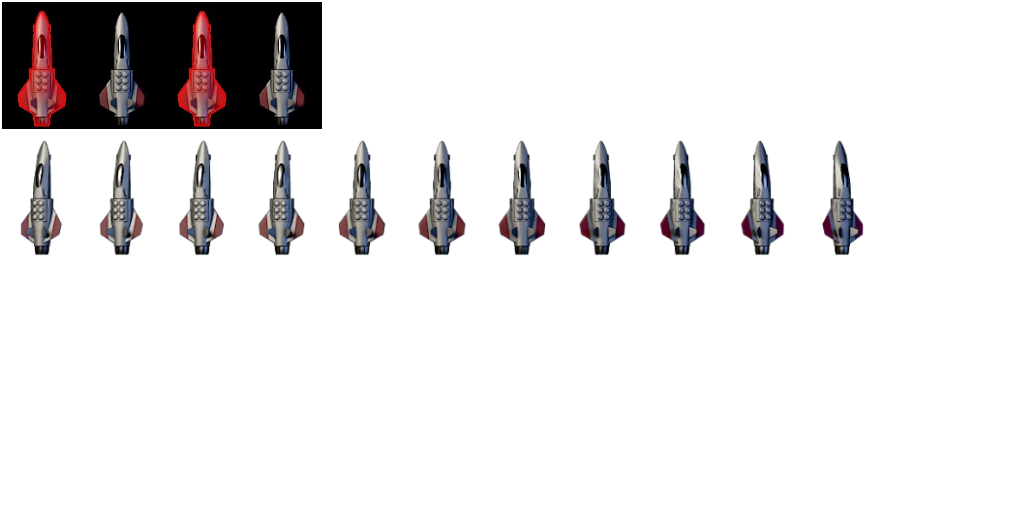
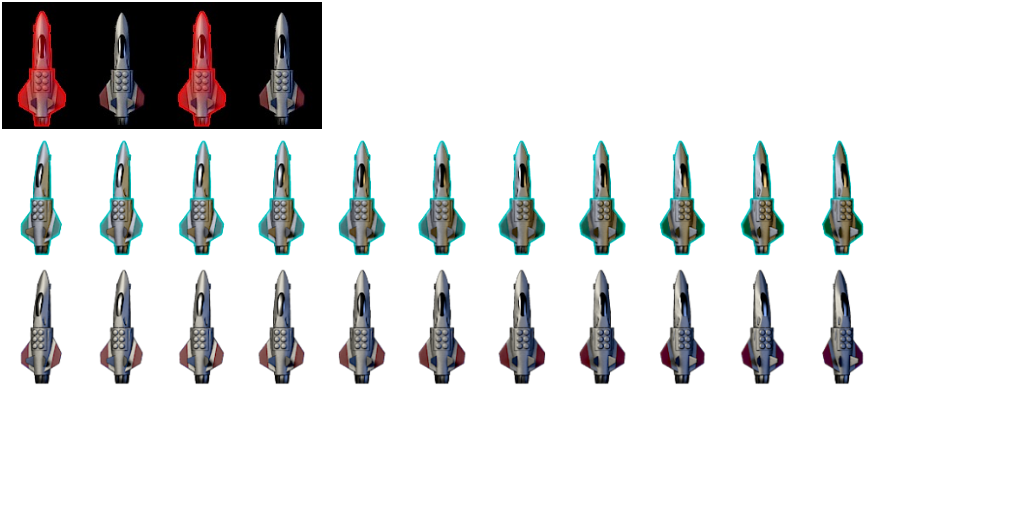
add new spaceship

diff --git a/core/src/com/mygdx/game/game_object/player/PlayerSpaceship.java b/core/src/com/mygdx/game/game_object/player/PlayerSpaceship.java
@@ -63,6 +63,7 @@ public class PlayerSpaceship extends Box2DObject implements Telegraph {
         this.setHp(ship.getHP());
         this.setSpeed(ship.getSpeed());
         this.totalHP = getHp();
+        this.totalHp = getHp(); //
         //this.width = getShip().getWidth();
 
         currentState = State.STRAIGHT;
@@ -101,7 +102,29 @@ public class PlayerSpaceship extends Box2DObject implements Telegraph {
             playerStraight = new TextureRegion(screen.spaceshipAtlasRegion, 5 * tileWidth, 0, tileWidth, tileHeight);
 
         } else if (ship.getName().equals(Constants.BIG_SHIP)) {
-            //TODO ADD NEW SPACESHIP
+            //get run animation frames and add them to animation
+            for (int i = 5; i >= 1; i--)
+                frames.add(new TextureRegion(screen.bigSpaceshipAtlasRegion, i * tileWidth, 0, tileWidth, tileHeight));
+            playerMoveLeftAnimation = new Animation(0.1f, frames);
+
+            frames.clear();
+
+            for (int i = 6; i <= 11; i++)
+                frames.add(new TextureRegion(screen.bigSpaceshipAtlasRegion, i * tileWidth, 0, tileWidth, tileHeight));
+            playerMoveRightAnimation = new Animation(0.1f, frames);
+
+            frames.clear();
+
+            for (int i = 4; i >= 1; i--)
+                frames.add(new TextureRegion(screen.spaceshipHitAtlasRegion, i * tileWidth, 0, tileWidth, tileHeight));
+            for (int i = 1; i <= 4; i++)
+                frames.add(new TextureRegion(screen.spaceshipHitAtlasRegion, i * tileWidth, 0, tileWidth, tileHeight));
+            playerGotHitAnimation = new Animation(0.1f, frames);
+
+            frames.clear();
+
+            playerStraight = new TextureRegion(screen.bigSpaceshipAtlasRegion, 5 * tileWidth, 0, tileWidth, tileHeight);
+
         }
     }
 

diff --git a/core/src/com/mygdx/game/screen/game/GameScreen.java b/core/src/com/mygdx/game/screen/game/GameScreen.java
@@ -78,6 +78,7 @@ public class GameScreen extends AbstractScreen {
     //textures
     public TextureAtlas.AtlasRegion spaceshipAtlasRegion;
     public TextureAtlas.AtlasRegion spaceshipHitAtlasRegion;
+    public TextureAtlas.AtlasRegion bigSpaceshipAtlasRegion;
     public static TextureAtlas.AtlasRegion bombAtlasRegion;
     public static TextureRegion fraction1OrangeShipTexture;
     public static TextureRegion fraction1OrangeShip2Texture;
@@ -328,6 +329,7 @@ public class GameScreen extends AbstractScreen {
         textureAtlas = game.assets.manager.get("packedImages/playerAndEnemies.atlas", TextureAtlas.class);
         spaceshipAtlasRegion = textureAtlas.findRegion("basicPlayerSpaceship");
         spaceshipHitAtlasRegion = textureAtlas.findRegion("basicPlayerShipHIT");
+        bigSpaceshipAtlasRegion = textureAtlas.findRegion("bigShip");
         bombAtlasRegion = textureAtlas.findRegion("bullet/enemyBomb");
         fraction1OrangeShipTexture = new TextureRegion(textureAtlas.findRegion("fraction1/orangeship"));
         fraction1OrangeShip2Texture = new TextureRegion(textureAtlas.findRegion("fraction1/orangeship2"));

diff --git a/core/src/com/mygdx/game/screen/menu/SpaceshipScreen.java b/core/src/com/mygdx/game/screen/menu/SpaceshipScreen.java
@@ -237,7 +237,7 @@ public class SpaceshipScreen extends AbstractScreen {
         arrowLeftTextureDown = new TextureRegion(textureAtlas.findRegion("menu/customize_spaceship/arrowLeftk"));
 
         basicShipTex = new TextureRegion(textureAtlas.findRegion("basicPlayerSpaceship"), 5 * 80, 0, 80, 127);
-        bigShipTex = new TextureRegion(textureAtlas.findRegion("basicPlayerShipHIT"), 0, 0, 80, 127);
+        bigShipTex = new TextureRegion(textureAtlas.findRegion("bigShip"), 0, 0, 80, 127);
 
         buyTextureUp = new TextureRegion(textureAtlas.findRegion("menu/customize_spaceship/BUY"));
         buyTextureDown = new TextureRegion(textureAtlas.findRegion("menu/customize_spaceship/BUYk"));
